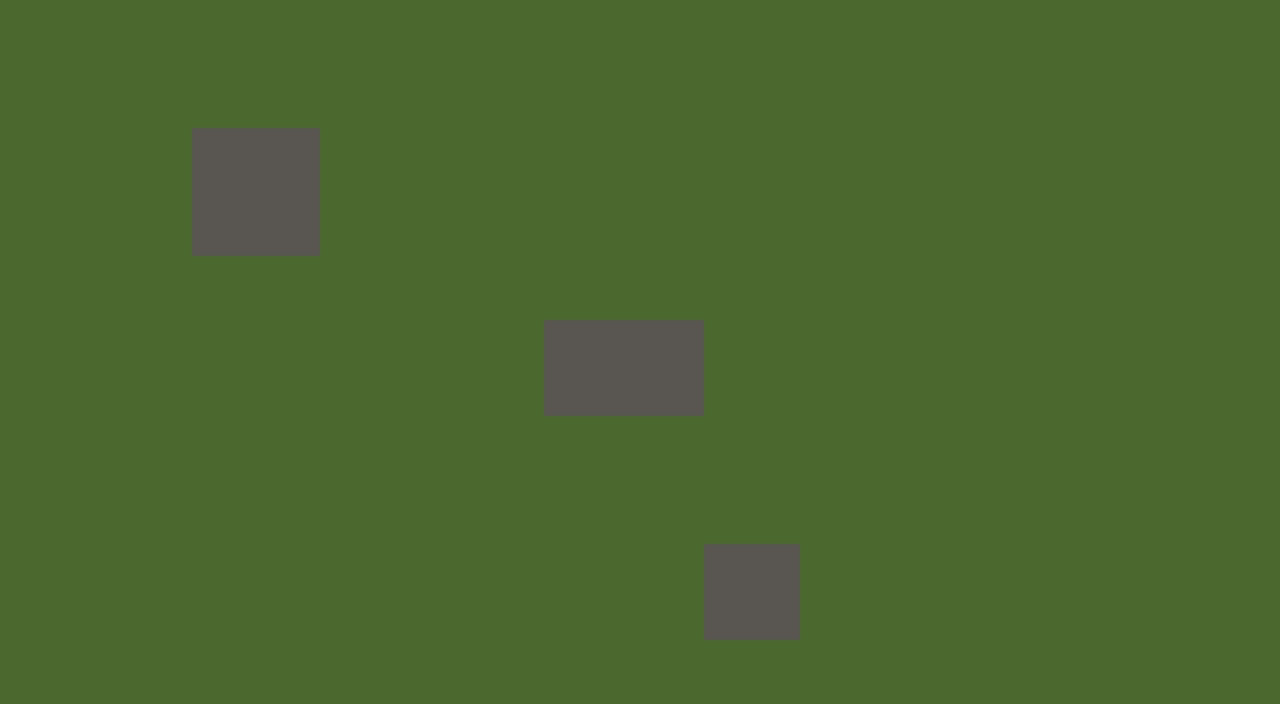
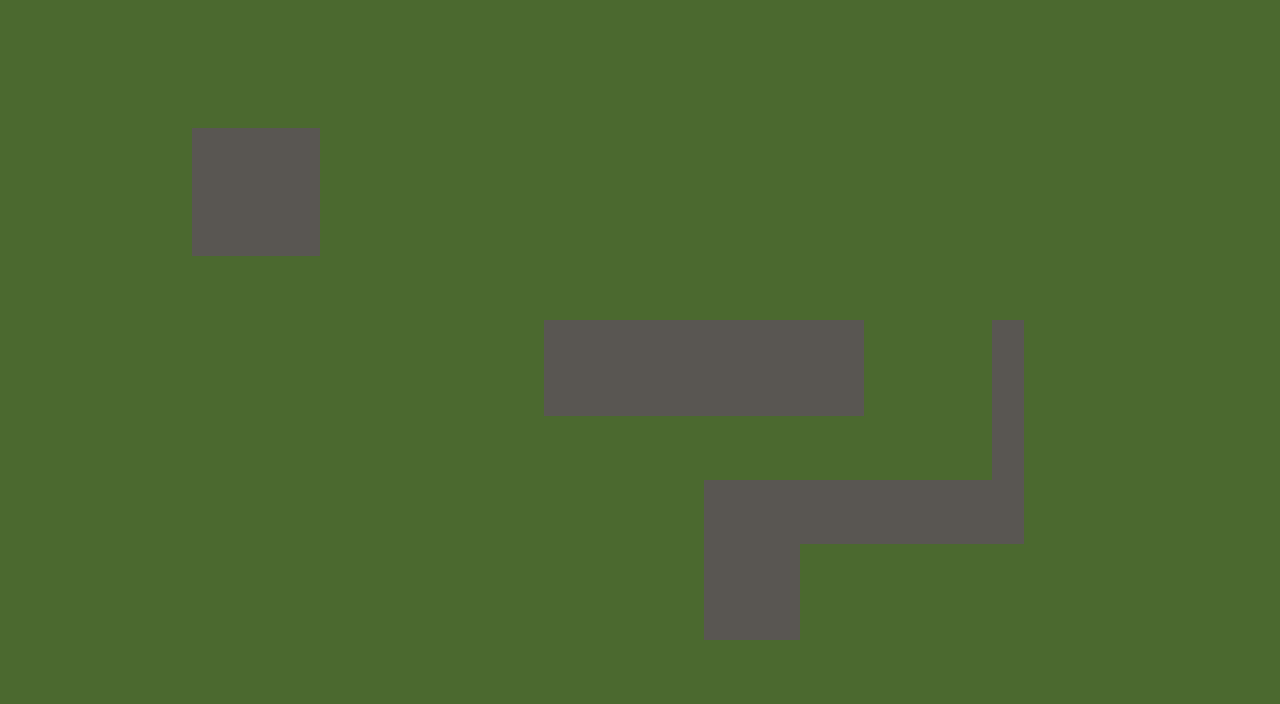
Add tile based collision - WIPn

Changed region(s): [[0.5312, 0.4375, 0.8125, 0.7812], [0.5312, 0.4375, 0.6875, 0.5938]]

diff --git a/app/Ball.rb b/app/Ball.rb
@@ -11,8 +11,8 @@ class Ball
 
     @x = x
     @y = y
-    @w = 48
-    @h = 48
+    @w = 32
+    @h = 32
     @path = 'assets/ball.png'
 
 
@@ -30,7 +30,16 @@ class Ball
 
   end
 
-  def tick args
+
+  def hasCollision(x, y, dx, dy, collision_grid)
+    if collision_grid.get_int(x,y) != 0 && [@x + dx, @y + dy, 32, 32].intersect_rect?([x * 32, y * 32, 32,32])
+      return collision_grid.get_int(x, y)
+    else
+      return 0
+    end
+  end 
+
+  def tick args, collision_grid
     if args.inputs.mouse.inside_circle?([@x + 0.5 * @w, @y + 0.5 * @h], @w * 0.5)
       @inside = true
     else
@@ -52,6 +61,44 @@ class Ball
       @speed *= 0.96
       @vx = @speed * Math.cos(@angle)
       @vy = @speed * Math.sin(@angle)
+      
+      # Collision Détection
+
+      # Destination tile
+      dest_xa = ((@x + @vx )/32).to_i
+      dest_ya = (@y / 32).to_i
+
+      dest_xb = (@x / 32).to_i
+      dest_yb = ((@y + @vy)  / 32).to_i
+
+      
+      # Check collision on x
+      [[0,0], [0,1], [1,0], [1,1]].each do |tile|
+        i = tile[0]
+        j = tile[1]
+
+        is_collide_on_x = hasCollision(dest_xa + i, dest_ya + j, @vx, 0, collision_grid)
+        if is_collide_on_x == 1
+          @vx *=  -1
+          @angle = Math.atan2(@vy, @vx)
+          break
+        end
+      end
+
+
+      # And check collision on y
+      [[0,0], [0,1], [1,0], [1,1]].each do |tile|
+        i = tile[0]
+        j = tile[1] 
+        is_collide_on_y = hasCollision(dest_xb + i, dest_yb + j, 0, @vy, collision_grid)
+        if is_collide_on_y == 1
+          @vy *= -1
+          @angle = Math.atan2(@vy, @vx)
+
+        end
+      end
+      
+
       @x += @vx
       @y += @vy
       if @x < 0 

diff --git a/app/Game.rb b/app/Game.rb
@@ -7,16 +7,25 @@ class Game
   def initialize args
     @args = args
     @golf = LDtk::LDtkBridge.new('assets/Golf.ldtk')
-    @level = @golf.get_level(:Level_0)
+    @level_name = :Level_0
+    @level = @golf.get_level(@level_name)
     @collision_grid = @level.get_layer(:CollisionGrid)
 
     @ball = Ball.new(200, 200)
+    outputs.static_sprites << {
+      x: 0,
+      y: 0,
+      w: 1280,
+      h: 720,
+      path: "assets/Golf/png/" + @level_name.to_s + "-Ground.png",
+    }
     outputs.static_sprites << @ball
+    
   end
 
   def tick
     outputs.background_color = [0,0,0]
-    @ball.tick args
+    @ball.tick args, @collision_grid
 
     debug
   end
